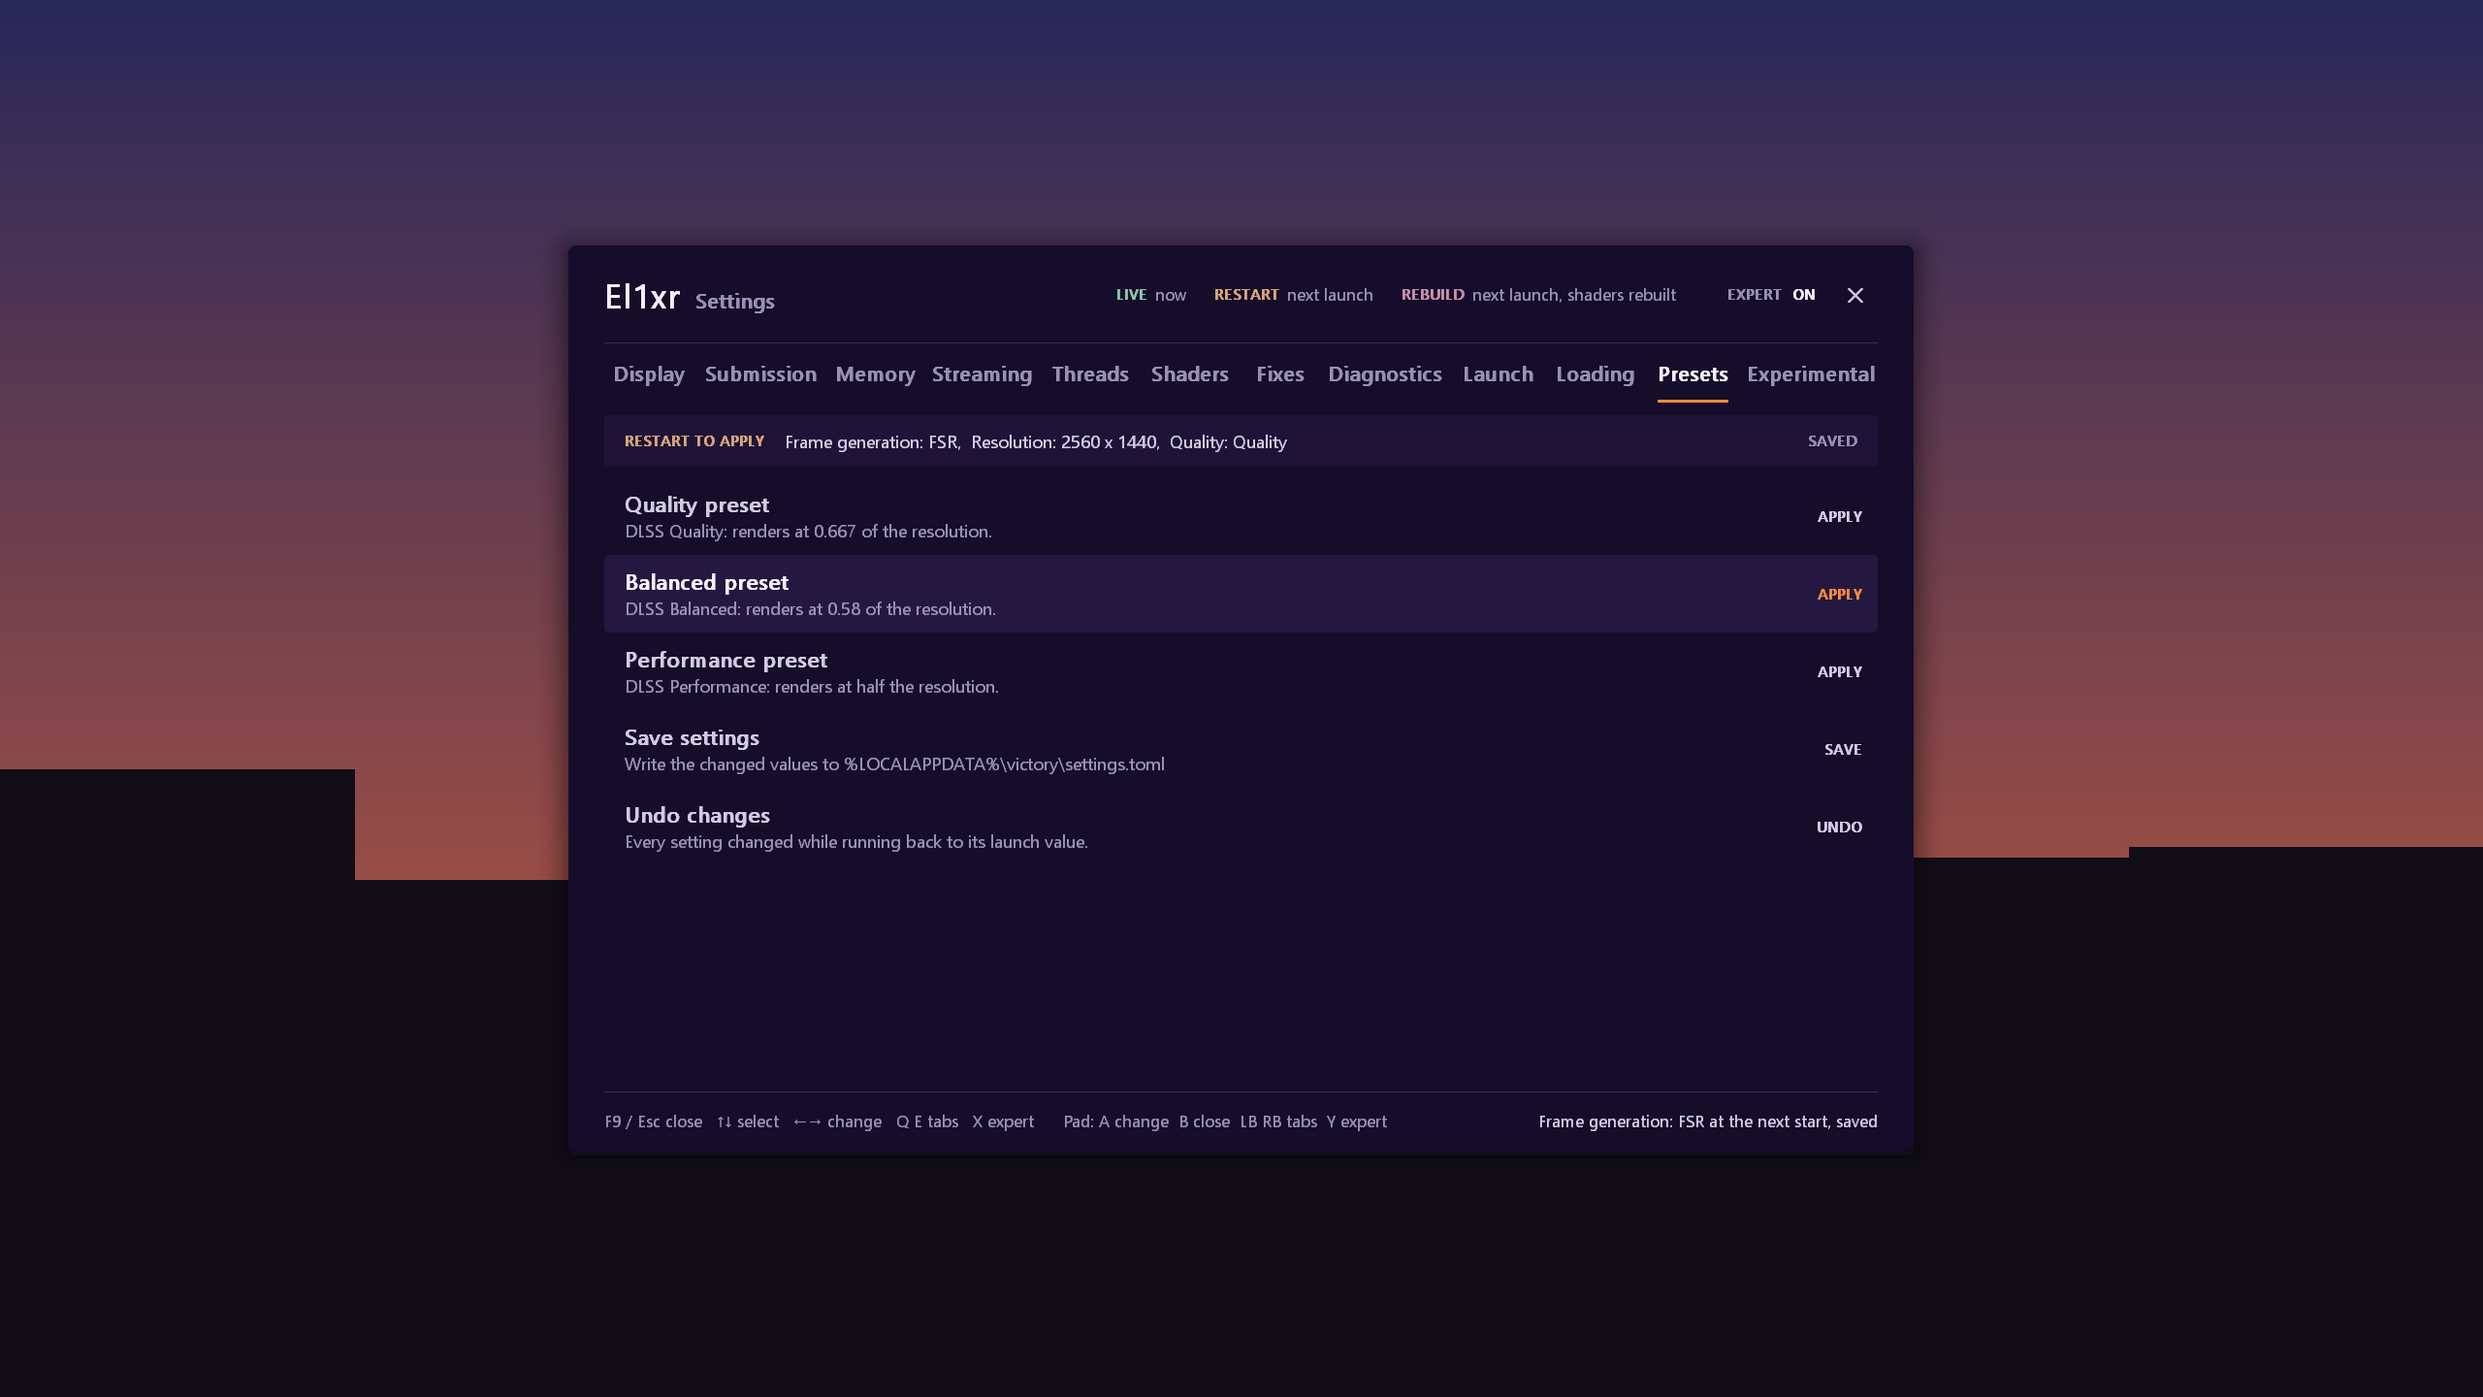
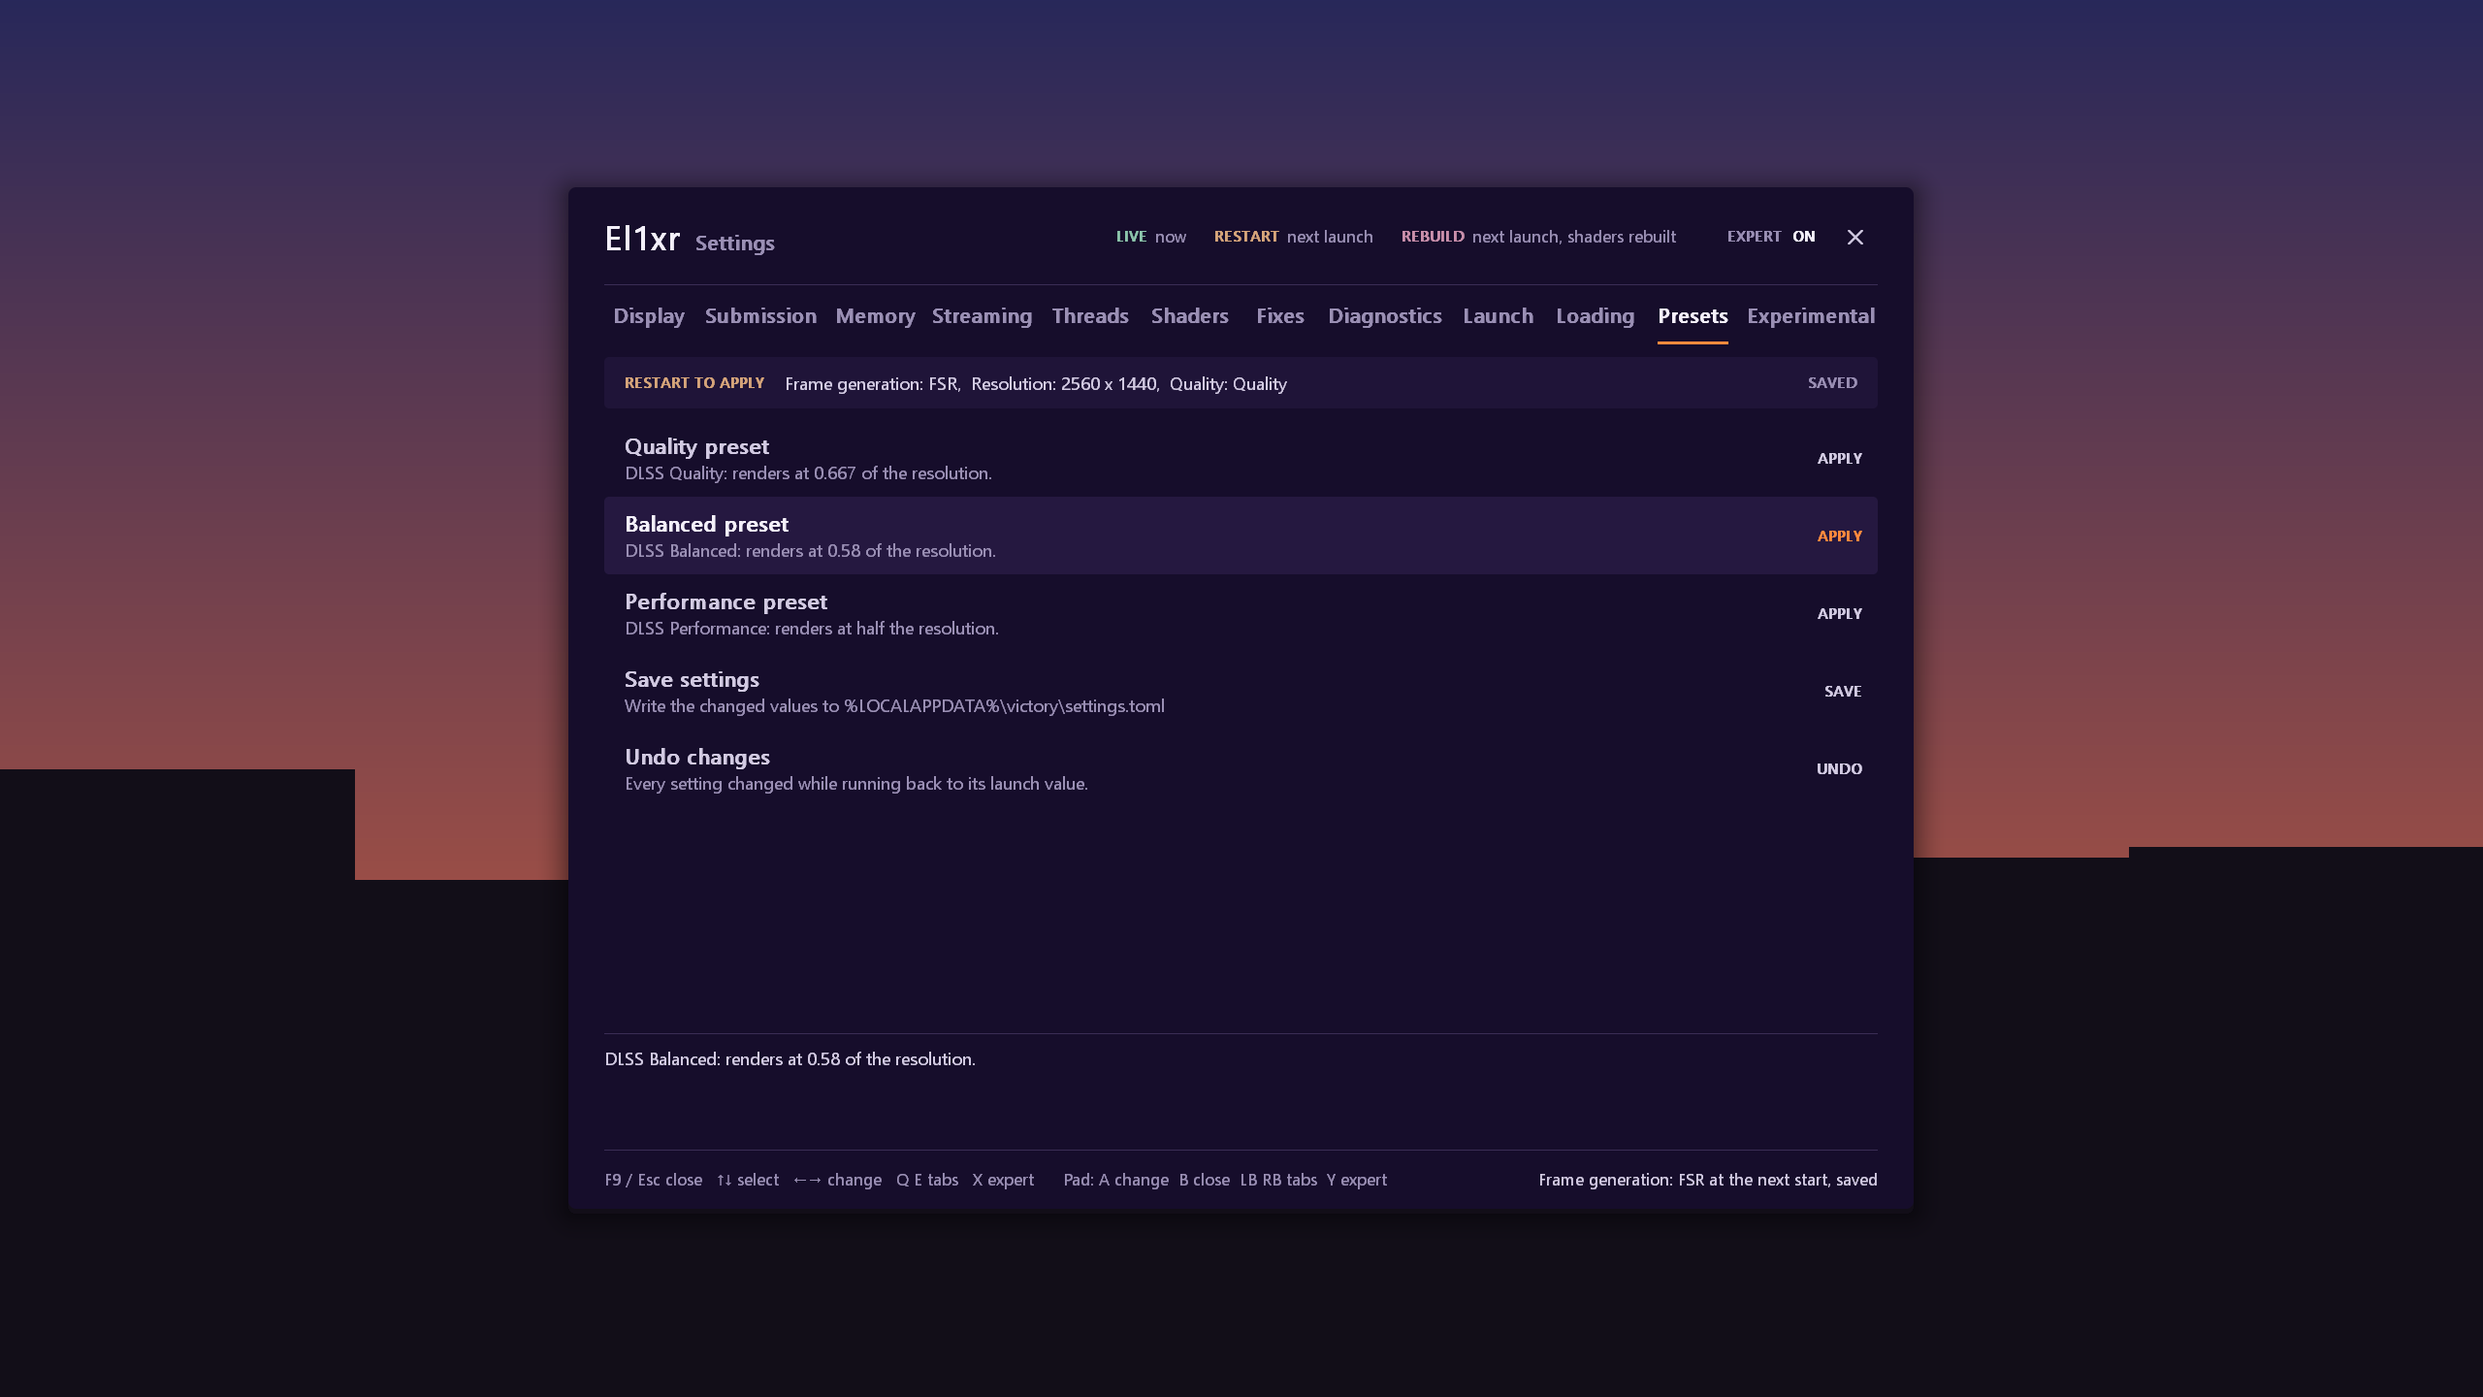
feat: menu: plain one-line descriptions for the Display rows, the selected row's whole description wrapped under the list, nothing cut at 1080p or 1440p (test)

diff --git a/third_party/victory/crates/victory-gpu/src/menu/draw.rs b/third_party/victory/crates/victory-gpu/src/menu/draw.rs
@@ -7,8 +7,8 @@
 use windows_sys::Win32::Foundation::SIZE;
 use windows_sys::Win32::Graphics::Gdi::*;
 
-use super::layout::{Layout, Rect};
-use super::model::{Apply, Kind, MenuModel};
+use super::layout::{ABOUT_LINES, Layout, Rect};
+use super::model::{Apply, Info, Kind, MenuModel};
 use super::state::{Menu, Row, selectable, shown};
 use crate::pixels::Bitmap;
 
@@ -178,6 +178,24 @@ impl Text {
         (size.cx, size.cy)
     }
 
+    /// `text` in lines of whole words no wider than `width` (a longer word keeps a line of its own).
+    fn wrap(&self, font: usize, text: &str, width: i32) -> Vec<String> {
+        let mut lines: Vec<String> = Vec::new();
+        let mut line = String::new();
+        for word in text.split_whitespace() {
+            let longer = if line.is_empty() { word.to_string() } else { format!("{line} {word}") };
+            if line.is_empty() || self.measure(font, &longer).0 <= width {
+                line = longer;
+            } else {
+                lines.push(std::mem::replace(&mut line, word.to_string()));
+            }
+        }
+        if !line.is_empty() {
+            lines.push(line);
+        }
+        lines
+    }
+
     /// `text` cut with an ellipsis to fit `width`.
     fn fit(&self, font: usize, text: &str, width: i32) -> String {
         if self.measure(font, text).0 <= width {
@@ -299,6 +317,41 @@ impl Drop for Text {
                 DeleteDC(self.dc);
             }
         }
+    }
+}
+
+/// The line under a setting's label: what it gives (`detail`) or its help, then the switch's
+/// name for experts only (players read the label and the line).
+pub(super) fn setting_line(info: &Info, model: &dyn MenuModel, expert: bool) -> String {
+    let detail = model.detail(info.name);
+    match (detail.as_deref().unwrap_or(info.help), info.label == info.name) {
+        (help, true) => help.to_string(),
+        ("", false) => info.name.to_string(),
+        (help, false) if expert => format!("{help}   {}", info.name),
+        (help, false) => help.to_string(),
+    }
+}
+
+/// The selected row's whole description for the band under the list: a setting's full help
+/// (its line when it has none) and its switch's name for experts, a preset's help.
+pub(super) fn about(row: Row, model: &dyn MenuModel, expert: bool) -> String {
+    match row {
+        Row::Setting(i) => {
+            let info = &model.infos()[i];
+            let help = match info.help {
+                "" => model.detail(info.name).unwrap_or_default(),
+                help => help.to_string(),
+            };
+            match (help.is_empty(), expert && info.label != info.name) {
+                (_, false) => help,
+                (true, true) => info.name.to_string(),
+                (false, true) => format!("{help}   {}", info.name),
+            }
+        }
+        Row::Preset(p) => model.presets()[p].help.to_string(),
+        Row::Save => "Writes every changed value to the settings file; changes that apply at the next start are written as soon as they are made.".into(),
+        Row::Undo => "Every setting changed while running back to its launch value.".into(),
+        Row::Heading(_) => String::new(),
     }
 }
 
@@ -436,6 +489,21 @@ impl Painter {
             };
             fill(&mut bm, thumb, 0.0, 255, DIM);
         }
+        // The selected row's whole description, wrapped under the list.
+        if let Some(&row) = rows.get(menu.selected) {
+            let a = l.about;
+            rule(&mut bm, l, a.x, a.y, a.w, RULE);
+            let text = about(row, model, menu.expert);
+            let line_h = t.measure(HELP, "Ag").1;
+            let mut lines = t.wrap(HELP, &text, a.w);
+            if lines.len() > ABOUT_LINES {
+                let rest = lines.split_off(ABOUT_LINES - 1).join(" ");
+                lines.push(t.fit(HELP, &rest, a.w));
+            }
+            for (k, line) in lines.iter().enumerate() {
+                t.draw(&mut bm, HELP, line, a.x, a.y + px(10.0) + k as i32 * line_h, SOFT);
+            }
+        }
         // Footer: hints, then the last change's outcome at the right.
         let f = l.footer;
         rule(&mut bm, l, f.x + pad, f.y, f.w - 2 * pad, RULE);
@@ -477,15 +545,7 @@ impl Painter {
                     _ => (value, true),
                 };
                 self.value(bm, l, l.value(r), info.name, info.kind, &value, selected, chosen);
-                // The switch's name only for experts: players read the label and the line.
-                let detail = model.detail(info.name);
-                let help = match (detail.as_deref().unwrap_or(info.help), info.label == info.name) {
-                    (help, true) => help.to_string(),
-                    ("", false) => info.name.to_string(),
-                    (help, false) if expert => format!("{help}   {}", info.name),
-                    (help, false) => help.to_string(),
-                };
-                (info.label.to_string(), help)
+                (info.label.to_string(), setting_line(&info, model, expert))
             }
             Row::Preset(p) => {
                 let preset = model.presets()[p];
@@ -612,5 +672,75 @@ fn short_path(path: &std::path::Path) -> String {
             format!("%LOCALAPPDATA%{}", &full[base.len()..])
         }
         _ => full,
+    }
+}
+
+#[cfg(test)]
+mod tests {
+    use super::super::model::{Registry, registry_lock};
+    use super::super::state::{Tab, rows, tabs};
+    use super::*;
+
+    /// What would be cut at `w` x `h` on every tab, the expert one too: a label wider than its
+    /// room, a Display row's line wider than its room (players read those in the row), and a
+    /// description longer than the band under the list.
+    fn cut(w: i32, h: i32) -> Vec<String> {
+        let model = Registry::default();
+        let mut menu = Menu::default();
+        let all = tabs(&model, true);
+        let l = super::super::layout::layout(w, h, &mut menu, &all, 6, &|_| false, false);
+        let text = Text::new(l.s).expect("fonts");
+        let r = l.rows[0].1;
+        let x = r.x + l.px(16.0);
+        let room = l.badge(r).x - l.px(16.0) - x;
+        let mut cut = Vec::new();
+        for tab in all {
+            for row in rows(&model, tab, true) {
+                let name = match row {
+                    Row::Setting(i) => model.infos()[i].name.to_string(),
+                    Row::Preset(p) => model.presets()[p].name.to_string(),
+                    _ => format!("{row:?}"),
+                };
+                let mut wide = |font: usize, what: &str, s: &str, room: i32| {
+                    let px = text.measure(font, s).0;
+                    if px > room {
+                        cut.push(format!("{w}x{h} {} {name} {what} +{}px: {s}", tab.title(), px - room));
+                    }
+                };
+                if let Row::Setting(i) = row {
+                    let info = &model.infos()[i];
+                    wide(LABEL, "label", info.label, room);
+                    if tab == Tab::DISPLAY && !info.expert {
+                        wide(HELP, "line", &setting_line(info, &model, false), room);
+                    }
+                }
+                for expert in [false, true] {
+                    let lines = text.wrap(HELP, &about(row, &model, expert), l.about.w);
+                    if lines.len() > ABOUT_LINES {
+                        cut.push(format!("{w}x{h} {} {name} about: {} lines", tab.title(), lines.len()));
+                    }
+                }
+            }
+        }
+        cut
+    }
+
+    #[test]
+    fn nothing_is_cut_at_1080_or_1440() {
+        let _lock = registry_lock();
+        let cut: Vec<String> = [(1920, 1080), (2560, 1440)].iter().flat_map(|&(w, h)| cut(w, h)).collect();
+        assert!(cut.is_empty(), "{} cut:\n{}", cut.len(), cut.join("\n"));
+    }
+
+    #[test]
+    fn wrapping_keeps_whole_words_within_the_width() {
+        let text = Text::new(1.0).expect("fonts");
+        let s = "the selected row's whole description, wrapped under the list in whole words";
+        let width = text.measure(HELP, "the selected row's whole").0;
+        let lines = text.wrap(HELP, s, width);
+        assert!(lines.len() > 2);
+        assert_eq!(lines.join(" "), s);
+        assert!(lines.iter().all(|l| text.measure(HELP, l).0 <= width), "{lines:?}");
+        assert!(text.wrap(HELP, "", width).is_empty());
     }
 }

diff --git a/third_party/victory/crates/victory-gpu/src/menu/display.rs b/third_party/victory/crates/victory-gpu/src/menu/display.rs
@@ -28,9 +28,40 @@ pub fn primary_display_size() -> Option<(u32, u32)> {
     None
 }
 
-/// The line under `name`'s row for the values `get` gives (`None`: the
-/// row's help).
+/// Display rows in plain words, short enough for the row: the registry's help (the full text,
+/// shown under the list for the selected row) is written for the people tuning them.
+const PLAIN: &[(&str, &str)] = &[
+    ("VICTORY_UPSCALE_QUALITY", "With Stretch or DLSS: the share of the resolution rendered, then upscaled"),
+    ("VICTORY_FRAME_GEN", "Adds generated frames between the rendered ones: AMD FSR or NVIDIA DLSS"),
+    ("VICTORY_DLSS_PRESET", "Which DLSS model: K is the newest, Default lets DLSS choose"),
+    ("VICTORY_PRESENT_SMOOTH_READY", "Pacing follows when frames were ready; 2 from the first world frame"),
+    ("VICTORY_LOAD_END", "World: the loading frame rate ends when the world first shows"),
+    ("VICTORY_HOLD_LAST_FRAME", "A black frame shows the last good one instead (hides one-frame flashes)"),
+    ("VICTORY_AMBIENT_ONCE", "The ambient light counts one bounce, so it does not feed on itself"),
+    ("VICTORY_NATIVE_DEFAULT", "With no Resolution chosen, use this monitor's instead of 3840x2160"),
+    ("VICTORY_DLSS_QUALITY", "The DLSS mode on its own; Quality above sets it for you"),
+    ("VICTORY_FFX_SCALE", "FidelityFX render scale, 0.5 to 1.0; Quality above sets it for you"),
+    ("VICTORY_UPSCALER", "The title's upscaler: its own, or FidelityFX (needed for DLSS)"),
+    ("VICTORY_DLSS_REACTIVE", "Gives DLSS the title's reactive mask, when the title has one"),
+];
+
+/// `name`'s line in plain words, if the Display tab has one for it.
+pub fn plain(name: &str) -> Option<&'static str> {
+    PLAIN.iter().find(|(n, _)| *n == name).map(|&(_, line)| line)
+}
+
+/// The line under `name`'s row for the values `get` gives: what the next
+/// start renders, else its plain words ([`plain`]); `None`: the row's help.
 pub fn detail(
+    name: &str,
+    get: impl Fn(&str) -> Option<String>,
+    native: impl Fn() -> Option<(u32, u32)>,
+) -> Option<String> {
+    sized(name, get, native).or_else(|| plain(name).map(str::to_string))
+}
+
+/// The resolution rows' line (and Ray tracing's).
+fn sized(
     name: &str,
     get: impl Fn(&str) -> Option<String>,
     native: impl Fn() -> Option<(u32, u32)>,
@@ -185,7 +216,8 @@ mod tests {
             detail("VICTORY_UPSCALE", &v, MONITOR).unwrap(),
             "Upscaler off: renders 2560x1440, the target"
         );
-        assert_eq!(detail("VICTORY_FFX_SCALE", &v, MONITOR), None);
+        assert_eq!(detail("VICTORY_FFX_SCALE", &v, MONITOR).as_deref(), plain("VICTORY_FFX_SCALE"));
+        assert_eq!(detail("VICTORY_OVERLAY", &v, MONITOR), None);
     }
 
     #[test]
@@ -202,7 +234,7 @@ mod tests {
         );
         let v = with(&[("VICTORY_UPSCALE", "dlss")]);
         assert_eq!(detail("VICTORY_UPSCALE", &v, MONITOR), None);
-        assert_eq!(detail("VICTORY_UPSCALE_QUALITY", &v, MONITOR), None);
+        assert_eq!(detail("VICTORY_UPSCALE_QUALITY", &v, MONITOR).as_deref(), plain("VICTORY_UPSCALE_QUALITY"));
         assert_eq!(
             detail("VICTORY_RESOLUTION", &v, MONITOR).unwrap(),
             "Not chosen: the title's 3840x2160; a choice is kept for the next start"

diff --git a/third_party/victory/crates/victory-gpu/src/menu/layout.rs b/third_party/victory/crates/victory-gpu/src/menu/layout.rs
@@ -50,6 +50,8 @@ pub struct Layout {
     pub tabs: Vec<(Tab, Rect)>,
     pub banner: Option<Rect>,
     pub list: Rect,
+    /// Under the list: the selected row's whole description, over [`ABOUT_LINES`] lines at most.
+    pub about: Rect,
     /// The visible rows: index into the tab's rows, and the row's rectangle.
     pub rows: Vec<(usize, Rect)>,
     pub footer: Rect,
@@ -63,7 +65,7 @@ pub fn scale(frame_h: i32) -> f32 {
 }
 
 const PANEL_W: f32 = 1040.0;
-const PANEL_H: f32 = 700.0;
+const PANEL_H: f32 = 700.0 + ABOUT_H;
 const SHADOW: f32 = 28.0;
 const PAD: f32 = 28.0;
 const HEADER_H: f32 = 76.0;
@@ -74,6 +76,10 @@ const TAB_PAD_W: f32 = 26.0;
 const TAB_GAP: f32 = 4.0;
 const BANNER_H: f32 = 40.0;
 const FOOTER_H: f32 = 46.0;
+/// The description under the list: a hairline, then up to this many lines of help text.
+pub const ABOUT_LINES: usize = 4;
+const ABOUT_LINE_H: f32 = 19.0;
+const ABOUT_H: f32 = 14.0 + ABOUT_LINES as f32 * ABOUT_LINE_H;
 const ROW_H: f32 = 60.0;
 /// A section title's row.
 const HEADING_H: f32 = 34.0;
@@ -185,11 +191,17 @@ pub fn layout(
         w,
         h: px(FOOTER_H),
     };
+    let about = Rect {
+        x: panel.x + pad,
+        y: footer.y - px(ABOUT_H),
+        w: w - 2 * pad,
+        h: px(ABOUT_H),
+    };
     let list = Rect {
         x: panel.x + pad,
         y,
         w: w - 2 * pad,
-        h: (footer.y - px(6.0) - y).max(0),
+        h: (about.y - px(6.0) - y).max(0),
     };
     let row_h = px(ROW_H);
     // Counted as full rows, so a page with section titles always fits.
@@ -219,6 +231,7 @@ pub fn layout(
         tabs,
         banner,
         list,
+        about,
         rows,
         footer,
         visible,
